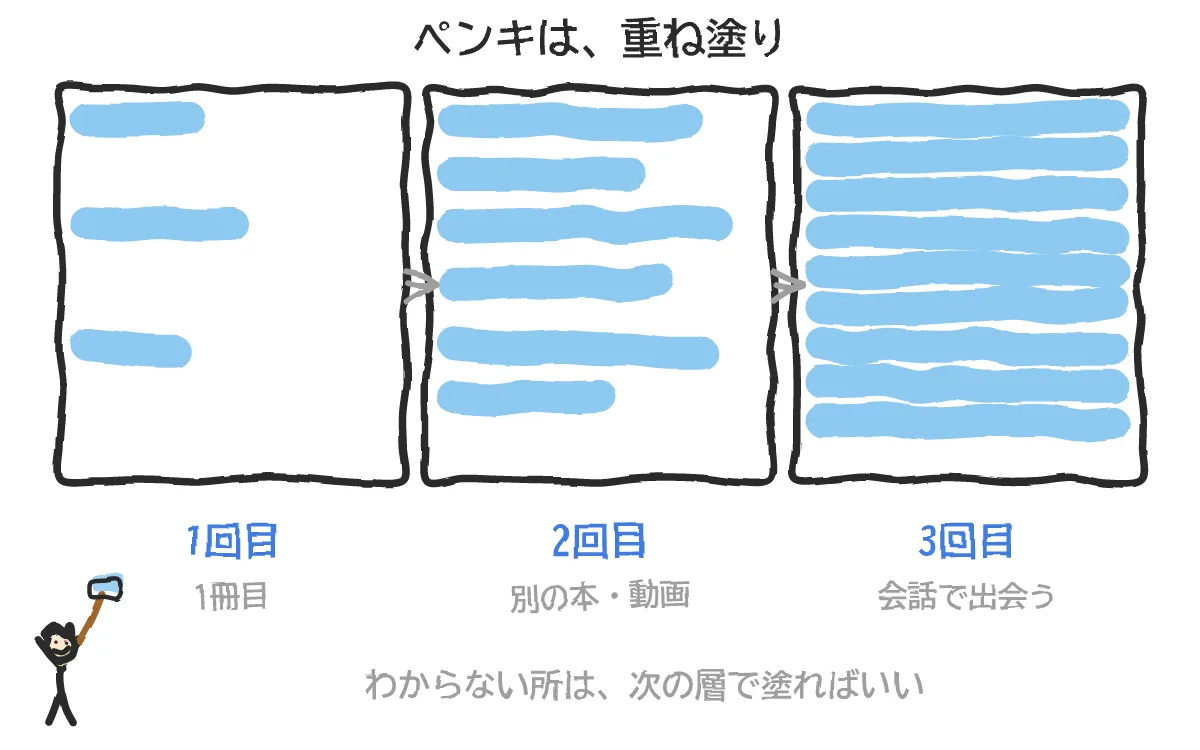
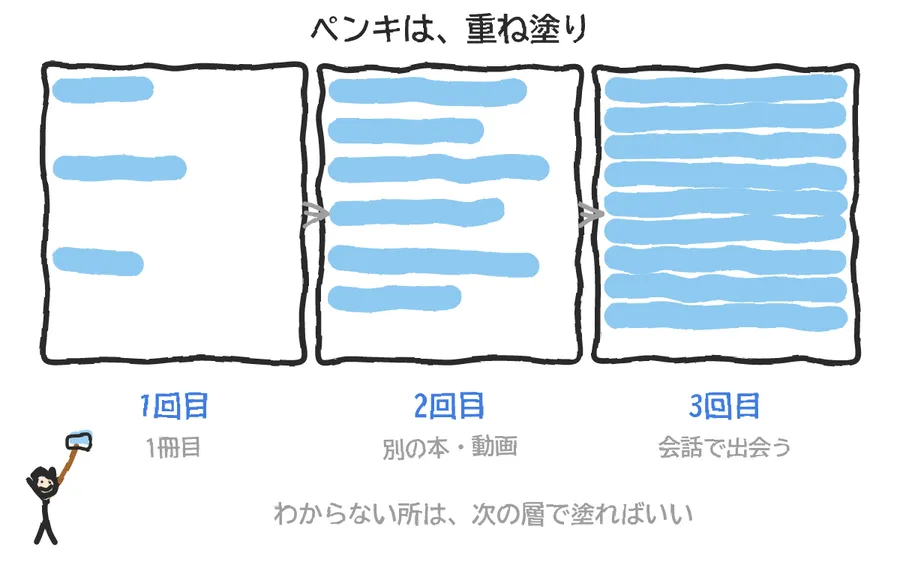
SEO と表示速度の改善: 共有画像、構造化データ、タグの説明文、日本語 Web フォントの廃止
- 共有画像(OG)とTwitterの大きいカード、トップに WebSite/Organization/Person の JSON-LD、記事の著者を Person に
- 短かった説明文8本を補強、タグページに説明文を追加
- 記事の画像に寸法と遅延読み込みを付け、イラストを軽量化
- 日本語の Web フォントをやめ OS 標準に(CSS 558KB → 28KB、ローカルのモバイル Lighthouse 56 → 95)

diff --git a/web/src/lib/tags.ts b/web/src/lib/tags.ts
@@ -1,0 +1,16 @@
+// タグページの説明文。記事が3本以上のタグを、検索に出せる「中身のあるページ」にするための文章
+export const TAG_DESCRIPTIONS: Record<string, string> = {
+  勉強法: "英語の勉強のやり方についての記事です。単語帳や文法書の進め方、復習のしかた、教材の選び方など、効率よく続けるための方法をまとめています。",
+  単語: "英単語の覚え方についての記事です。例文で覚える、イメージで覚える、思い出す練習をするなど、単語帳を使いこなす方法を紹介しています。",
+  学習研究: "勉強法についての研究を、英語学習に当てはめて紹介する記事です。出典を確認できたものだけを書き、研究の限界も合わせて紹介しています。",
+  スピーキング: "英語を話す力を、一人でも伸ばす方法についての記事です。口ずさみ、独り言、人に話しかけるコツなど、練習の段階に合わせて紹介しています。",
+  モチベーション: "英語の勉強を続けるための考え方についての記事です。つらい時期の乗り越え方、疲れた日の過ごし方、楽しみながら続けるコツを紹介しています。",
+  リスニング: "英語を聞き取る力についての記事です。聞き流しがなぜ効きにくいのか、音のつながり、口ずさみを使った練習など、聞く力の伸ばし方を紹介しています。",
+  文法: "英文法の学び方についての記事です。文法書を1か月で終える計画、冠詞や前置詞のつまずきポイントなどを、例文つきで紹介しています。",
+  丁寧表現: "英語の丁寧な言い方についての記事です。許可の求め方、断り方、want と would like の違いなど、相手に合わせた言い方を紹介しています。",
+  ビジネス英語: "職場で使う英語表現についての記事です。会議やメールで使える言い方を、場面ごとに例文で紹介しています。",
+  会話: "英会話でよく使う表現についての記事です。あいさつの返し方、断り方、相づちなど、日常の場面ごとに自然な言い方を紹介しています。",
+  初心者: "英語の勉強を始めたばかりの人に向けた記事です。何も出てこない状態からでも始められる方法を紹介しています。",
+  発音: "英語の発音についての記事です。音のつながりや、L と R の出し方など、日本語話者がつまずきやすいポイントを紹介しています。",
+  留学: "留学を英語力につなげる方法についての記事です。現地で何をするかで伸びが変わる理由と、話しかけるための具体的なひとことを紹介しています。",
+};

diff --git a/web/src/app/articles/[slug]/page.tsx b/web/src/app/articles/[slug]/page.tsx
@@ -12,7 +12,7 @@ import { asPosts, getCommentCounts, POST_COLUMNS } from "@/lib/queries";
 import { createClient } from "@/lib/supabase/server";
 import { SITE_URL } from "@/lib/env";
 import { withLinkCards } from "@/lib/linkCards";
-import { SOCIAL } from "@/lib/site";
+import { ORG_ID, PERSON_ID, ldScript, organizationLd, personLd } from "@/lib/jsonld";
 
 export async function generateMetadata(props: PageProps<"/articles/[slug]">): Promise<Metadata> {
   const { slug } = await props.params;
@@ -29,8 +29,9 @@ export async function generateMetadata(props: PageProps<"/articles/[slug]">): Pr
       url: `/articles/${slug}`,
       publishedTime: article.date,
       tags: article.tags,
-      ...(article.coreIllustration ? { images: [{ url: article.coreIllustration, alt: article.coreIllustrationAlt }] } : {}),
+      images: [article.ogImage ? { url: article.ogImage, width: 1200, height: 630, alt: article.coreIllustrationAlt } : { url: "/og-default.png", width: 1200, height: 630, alt: "まなビレッジ" }],
     },
+    twitter: { card: "summary_large_image", title: article.title, description: article.summary, images: [article.ogImage ?? "/og-default.png"] },
     ...(article.draft ? { robots: { index: false, follow: false } } : {}),
   };
 }
@@ -50,7 +51,6 @@ export default async function ArticlePage(props: PageProps<"/articles/[slug]">) 
   const all = getAllArticles();
   const url = `${SITE_URL}/articles/${slug}`;
   const jsonLd = {
-    "@context": "https://schema.org",
     "@type": "BlogPosting",
     headline: article.title,
     description: article.summary,
@@ -59,15 +59,15 @@ export default async function ArticlePage(props: PageProps<"/articles/[slug]">) 
     keywords: article.tags.join(", "),
     mainEntityOfPage: { "@type": "WebPage", "@id": url },
     url,
-    ...(article.coreIllustration ? { image: `${SITE_URL}${article.coreIllustration}` } : {}),
-    author: { "@type": "Organization", name: "まなビレッジ", url: SITE_URL },
-    publisher: { "@type": "Organization", name: "まなビレッジ", url: SITE_URL, sameAs: [SOCIAL.instagram.url, SOCIAL.youtube.url] },
+    image: `${SITE_URL}${article.ogImage ?? "/og-default.png"}`,
+    author: { "@id": PERSON_ID },
+    publisher: { "@id": ORG_ID },
   };
 
   return (
     <div className="screen">
       <ReadingProgress />
-      <script type="application/ld+json" dangerouslySetInnerHTML={{ __html: JSON.stringify(jsonLd).replace(/</g, "\\u003c") }} />
+      <script type="application/ld+json" dangerouslySetInnerHTML={{ __html: ldScript({ "@context": "https://schema.org", "@graph": [jsonLd, personLd, organizationLd] }) }} />
       <div className="wrap reader-grid">
         <article className="panel paper">
           <div className="crumb">

diff --git a/web/src/app/layout.tsx b/web/src/app/layout.tsx
@@ -1,6 +1,6 @@
 import type { Metadata } from "next";
 import Link from "next/link";
-import { Newsreader, Noto_Sans_JP, Zen_Kaku_Gothic_New } from "next/font/google";
+import { Newsreader } from "next/font/google";
 import NavLinks from "@/components/NavLinks";
 import ScrollEffects from "@/components/ScrollEffects";
 import SiteFooter from "@/components/SiteFooter";
@@ -9,22 +9,25 @@ import { initial } from "@/lib/format";
 import { SITE_URL } from "@/lib/env";
 import "./globals.css";
 
-const display = Zen_Kaku_Gothic_New({ weight: ["500", "700", "900"], subsets: ["latin"], variable: "--font-display", preload: false });
-const body = Noto_Sans_JP({ weight: ["400", "500", "700"], subsets: ["latin"], variable: "--font-body", preload: false });
 const en = Newsreader({ style: ["italic"], weight: ["400", "500"], subsets: ["latin"], variable: "--font-en" });
 
 export const metadata: Metadata = {
   metadataBase: new URL(SITE_URL),
   title: { default: "まなビレッジ", template: "%s | まなビレッジ" },
   description: "Kaz が書く英語学習の記事と、学習者どうしで交流できる掲示板。",
-  openGraph: { type: "website", siteName: "まなビレッジ", locale: "ja_JP" },
-  twitter: { card: "summary" },
+  openGraph: {
+    type: "website",
+    siteName: "まなビレッジ",
+    locale: "ja_JP",
+    images: [{ url: "/og-default.png", width: 1200, height: 630, alt: "まなビレッジ — For Everyone's Learning, For Everyone's Help" }],
+  },
+  twitter: { card: "summary_large_image", images: ["/og-default.png"] },
 };
 
 export default async function RootLayout({ children }: Readonly<{ children: React.ReactNode }>) {
   const viewer = await getViewer();
   return (
-    <html lang="ja" className={`${display.variable} ${body.variable} ${en.variable}`}>
+    <html lang="ja" className={en.variable}>
       <body>
         <header className="site-head bleed" id="site-head">
           <div className="head-in">

diff --git a/web/src/lib/articles.ts b/web/src/lib/articles.ts
@@ -22,6 +22,7 @@ export type ArticleMeta = {
   // ハブ記事のとき、検索を譲らせる（noindex にする）タグ
   hubTag: string;
   coreIllustration: string | null;
+  ogImage: string | null;
   coreIllustrationAlt: string;
   related: string[];
 };
@@ -29,6 +30,17 @@ export type ArticleMeta = {
 export type Article = ArticleMeta & { html: string };
 
 const DIR = path.join(process.cwd(), "content", "articles");
+
+// 本文の画像に、寸法(イラストはすべて 8:5)と遅延読み込みを付ける。レイアウトのずれと、初回表示の重さを防ぐ
+marked.use({
+  renderer: {
+    image({ href, title, text }) {
+      const esc = (s: string) => s.replace(/&/g, "&amp;").replace(/"/g, "&quot;").replace(/</g, "&lt;");
+      const illust = /^\/(illustrations|articles)\//.test(href);
+      return `<img src="${esc(href)}" alt="${esc(text)}"${title ? ` title="${esc(title)}"` : ""}${illust ? ' width="800" height="500"' : ""} loading="lazy" decoding="async">`;
+    },
+  },
+});
 const isProd = process.env.NODE_ENV === "production";
 const today = () => new Date().toISOString().slice(0, 10);
 const str = (v: unknown) => (v instanceof Date ? v.toISOString().slice(0, 10) : v == null ? "" : String(v));
@@ -55,6 +67,7 @@ function load(file: string): Article {
     hub: str(data.hub),
     hubTag: str(data.hubTag),
     coreIllustration: core ? `/illustrations/${slug}/${core}` : null,
+    ogImage: core ? `/illustrations/${slug}/${core.replace(/\.[a-z]+$/, "")}-og.png` : null,
     coreIllustrationAlt: str(data.coreIllustrationAlt),
     related: list(data.related),
     // 日本語の読書速度を約500字/分として概算

diff --git a/web/src/lib/jsonld.ts b/web/src/lib/jsonld.ts
@@ -1,0 +1,38 @@
+import { SITE_URL } from "@/lib/env";
+import { OPERATOR_NAME, SOCIAL } from "@/lib/site";
+
+const sameAs = [SOCIAL.instagram.url, SOCIAL.youtube.url];
+
+export const ORG_ID = `${SITE_URL}/#organization`;
+export const PERSON_ID = `${SITE_URL}/operator#person`;
+
+export const organizationLd = {
+  "@type": "Organization",
+  "@id": ORG_ID,
+  name: "まなビレッジ",
+  url: SITE_URL,
+  logo: `${SITE_URL}/og-default.png`,
+  sameAs,
+};
+
+export const personLd = {
+  "@type": "Person",
+  "@id": PERSON_ID,
+  name: OPERATOR_NAME,
+  url: `${SITE_URL}/operator`,
+  description: "英語の勉強方法を発信する、まなビレッジの運営者",
+  worksFor: { "@id": ORG_ID },
+  sameAs,
+};
+
+export const websiteLd = {
+  "@type": "WebSite",
+  "@id": `${SITE_URL}/#website`,
+  name: "まなビレッジ",
+  url: SITE_URL,
+  inLanguage: "ja",
+  publisher: { "@id": ORG_ID },
+};
+
+// < を < にして、<script> を途中で閉じられないようにする
+export const ldScript = (data: unknown) => JSON.stringify(data).replace(/</g, "\u003c");

diff --git a/web/src/components/ArticleList.tsx b/web/src/components/ArticleList.tsx
@@ -2,6 +2,7 @@ import Link from "next/link";
 import ArticleCard from "@/components/ArticleCard";
 import { getAllArticles, getTagCounts } from "@/lib/articles";
 import { getCommentCounts } from "@/lib/queries";
+import { TAG_DESCRIPTIONS } from "@/lib/tags";
 
 export default async function ArticleList({ tag }: { tag?: string }) {
   const all = getAllArticles();
@@ -14,6 +15,7 @@ export default async function ArticleList({ tag }: { tag?: string }) {
         <div className="panel ptitle intro">
           <span className="sub">{tag ? "タグ" : "/articles"}</span>
           <h1>{tag ? `#${tag}` : "記事"}</h1>
+          {tag && TAG_DESCRIPTIONS[tag] && <p style={{ maxWidth: "40em", position: "relative" }}>{TAG_DESCRIPTIONS[tag]}</p>}
           <p className="sub">{list.length}件の記事 · 新着順</p>
           <span className="deco" aria-hidden="true">Read.</span>
         </div>

diff --git a/web/src/app/page.tsx b/web/src/app/page.tsx
@@ -4,6 +4,7 @@ import PhraseCarousel from "@/components/PhraseCarousel";
 import { getAllArticles, getTagCounts } from "@/lib/articles";
 import { shortDate } from "@/lib/format";
 import { catClass, getCommentCounts, listThreads } from "@/lib/queries";
+import { ldScript, organizationLd, personLd, websiteLd } from "@/lib/jsonld";
 
 export const metadata = { alternates: { canonical: "/" } };
 
@@ -25,6 +26,7 @@ export default async function Home() {
 
   return (
     <div className="screen">
+      <script type="application/ld+json" dangerouslySetInnerHTML={{ __html: ldScript({ "@context": "https://schema.org", "@graph": [websiteLd, organizationLd, personLd] }) }} />
       {latest && (
         <div className="wrap">
           <Link className="panel hero" href={`/articles/${latest.slug}`}>

diff --git a/web/src/app/operator/page.tsx b/web/src/app/operator/page.tsx
@@ -2,6 +2,7 @@ import type { Metadata } from "next";
 import Link from "next/link";
 import InfoPage from "@/components/InfoPage";
 import { CONTACT_EMAIL, ESTABLISHED, OPERATOR_NAME, SOCIAL } from "@/lib/site";
+import { ldScript, personLd } from "@/lib/jsonld";
 
 export const metadata: Metadata = {
   title: "運営者について",
@@ -12,6 +13,7 @@ export const metadata: Metadata = {
 export default function OperatorPage() {
   return (
     <InfoPage title="運営者について">
+      <script type="application/ld+json" dangerouslySetInnerHTML={{ __html: ldScript({ "@context": "https://schema.org", ...personLd }) }} />
       <h2>運営者情報</h2>
       <table>
         <tbody>

diff --git a/web/src/app/globals.css b/web/src/app/globals.css
@@ -8,8 +8,8 @@
   --shadow-s:0 1px 2px rgba(25,35,70,.05),0 2px 8px rgba(25,35,70,.05);
   --shadow-m:0 2px 4px rgba(25,35,70,.05),0 12px 32px rgba(25,35,70,.10);
   --r:20px;
-  --display:var(--font-display),"Hiragino Kaku Gothic ProN","Yu Gothic",sans-serif;
-  --body:var(--font-body),"Hiragino Sans","Yu Gothic",sans-serif;
+  --display:"Hiragino Sans","Hiragino Kaku Gothic ProN","Noto Sans JP","Noto Sans CJK JP","Yu Gothic",Meiryo,sans-serif;
+  --body:"Hiragino Sans","Hiragino Kaku Gothic ProN","Noto Sans JP","Noto Sans CJK JP","Yu Gothic Medium","Yu Gothic",Meiryo,sans-serif;
   --en:var(--font-en),Georgia,serif;
   --ease:cubic-bezier(.2,.8,.2,1);
 }

diff --git a/docs/02-architecture.md b/docs/02-architecture.md
@@ -42,7 +42,8 @@ web/
     articles/<slug>/*.svg            導入前の記事のイラスト
   scripts/
     doodle.mjs           クレヨン風の絵を描く道具箱(揺れる線、棒人間、吹き出し…)
-    illustrate.mjs       content/illustrations/<slug>/*.mjs → svg と webp を書き出す
+    illustrate.mjs       content/illustrations/<slug>/*.mjs → svg、webp(幅900)、共有用の PNG(1200x630)を書き出す
+    make-og.mjs          サイト共通の共有画像 public/og-default.png を作る
     check-article.mjs    記事の機械チェック(ワークフロー 3-5 のうち機械で判定できる項目)
     draw-articles.mjs    導入前の記事10本のイラスト(旧方式)
     draw-study.mjs       導入前の勉強法記事30本のイラスト(旧方式)
@@ -59,6 +60,8 @@ web/
       about, operator, contact, privacy, terms   サイトの紹介・運営者・問い合わせ・プライバシーポリシー・利用規約(InfoPage 部品で共通のレイアウト)
       auth/confirm/route.ts   メールのリンク(登録確認・パスワード再設定)の受け口
       sitemap.ts, robots.ts
+    lib/jsonld.ts        JSON-LD(WebSite / Organization / Person、記事の BlogPosting の著者・発行元の参照)
+    lib/tags.ts          タグページの説明文(記事が3本以上のタグを中身のあるページにする)
     lib/site.ts          SNS のアカウント、タグライン、運営者名、問い合わせ先メール(変更はここだけ)
     components/          UI 部品(Discussion = コメント/返信のツリー表示と投稿フォーム など)
     lib/
@@ -113,7 +116,9 @@ web/
 
 ## SEO の実装
 
-- `canonical`(全ページ)、OG タグ、記事に JSON-LD `BlogPosting`
+- `canonical`(全ページ)、OG タグ、Twitter の大きいカード(`summary_large_image`)
+- 共有画像: サイト共通 `public/og-default.png`(`node scripts/make-og.mjs` で作る)、ワークフロー導入後の記事は `public/illustrations/<slug>/core-og.png`(`illustrate.mjs` が 1200x630 の PNG を一緒に書き出す)。導入前の記事は共通画像
+- JSON-LD: トップに `WebSite` + `Organization` + `Person`(運営者)、運営者ページに `Person`、記事に `BlogPosting`(著者は運営者の `Person`、発行元は `Organization`)
 - `sitemap.xml`: 公開済みの記事と、検索に出してよいタグページだけ
 - タグページの `noindex`: 公開記事が3本未満、または `hubTag` にそのタグを持つハブ記事が公開済み
 - 返信ゼロのスレッドは `noindex`

diff --git a/docs/06-open-items.md b/docs/06-open-items.md
@@ -14,6 +14,15 @@
 - [ ] ハブ記事の作成: 勉強法の研究、教材の選び方・進め方、続け方・モチベーション(topic-map の「ハブ」表)
 - [ ] 導入前の記事のイラスト(`public/articles/**/*.svg`)を webp に移すか(任意)
 
+## SEO(2026-10-01 の PageSpeed と外部の指摘から)
+
+- [ ] **トップページの h1**: 今は最新記事のタイトルが h1。サイトを説明する固定の見出しと紹介文を置くか検討(デザインの変更を伴う)
+- [ ] **記事の厚み**: 公開済みの多くが約1,500字(中央値)。ワークフローの目安は5,000字。手直しは1日1本(ワークフローに入れてある)
+- [ ] **画像の配信**: 記事のイラストは表示幅の約1.6倍で配信している(PageSpeed の「画像配信」の指摘は約18KB)。`srcset` で小さい版を出すかは、効果が小さいので優先度は低い
+- [ ] **Core Web Vitals の実測データ**: 訪問者が増えるまで PageSpeed に出ない。Search Console の「ウェブに関する主な指標」を見る
+- [ ] **ページ速度の再測定**: デプロイ後に https://pagespeed.web.dev で測る(2026-10-01 の PSI は LCP 6.5秒、パフォーマンス75。日本語の Web フォントをやめたあとの値は未確認)
+- [ ] **セキュリティヘッダー**(PageSpeed のおすすめの方法の指摘): CSP、COOP、X-Frame-Options など。SEO への影響はほぼない。入れるなら `next.config.ts` の `headers()` で
+
 ## 運用・設定
 
 - [ ] **プライバシーポリシーと利用規約の文面を、公開前に専門家(弁護士など)に確認してもらう**(個人情報保護法の対応範囲など。今は運営者向けの下書きとして公開している)

diff --git a/docs/05-design.md b/docs/05-design.md
@@ -27,10 +27,9 @@
 
 ## 文字
 
-- 見出し: Zen Kaku Gothic New(700/900)
-- 本文: Noto Sans JP
-- 英語の例文・飾り: Newsreader(イタリック)
-- `next/font/google` で読み込み
+- 日本語(見出し・本文): **OS 標準のゴシック体**(Hiragino Sans → Noto Sans JP → Yu Gothic Medium → Meiryo の順)。Web フォントは使わない
+- 英語の例文・飾り: Newsreader(イタリック。`next/font/google`、ラテン文字だけなので軽い)
+- **日本語の Web フォントを使わない理由**: 以前は Noto Sans JP と Zen Kaku Gothic New を `next/font/google` で読み込んでいたが、日本語のフォントは小さく分割されて配信されるため、`@font-face` が合計737個・CSS が558KB になり、表示をブロックしていた。OS 標準フォントに変えて、ローカルの Lighthouse(モバイル)で、パフォーマンス56→95、LCP 11.8秒→2.9秒になった(2026-10-01)。日本語の Web フォントを再び入れるときは、1つの太さだけにするなど、CSS の量を測ってから決める
 
 ## 部品と動き
 
